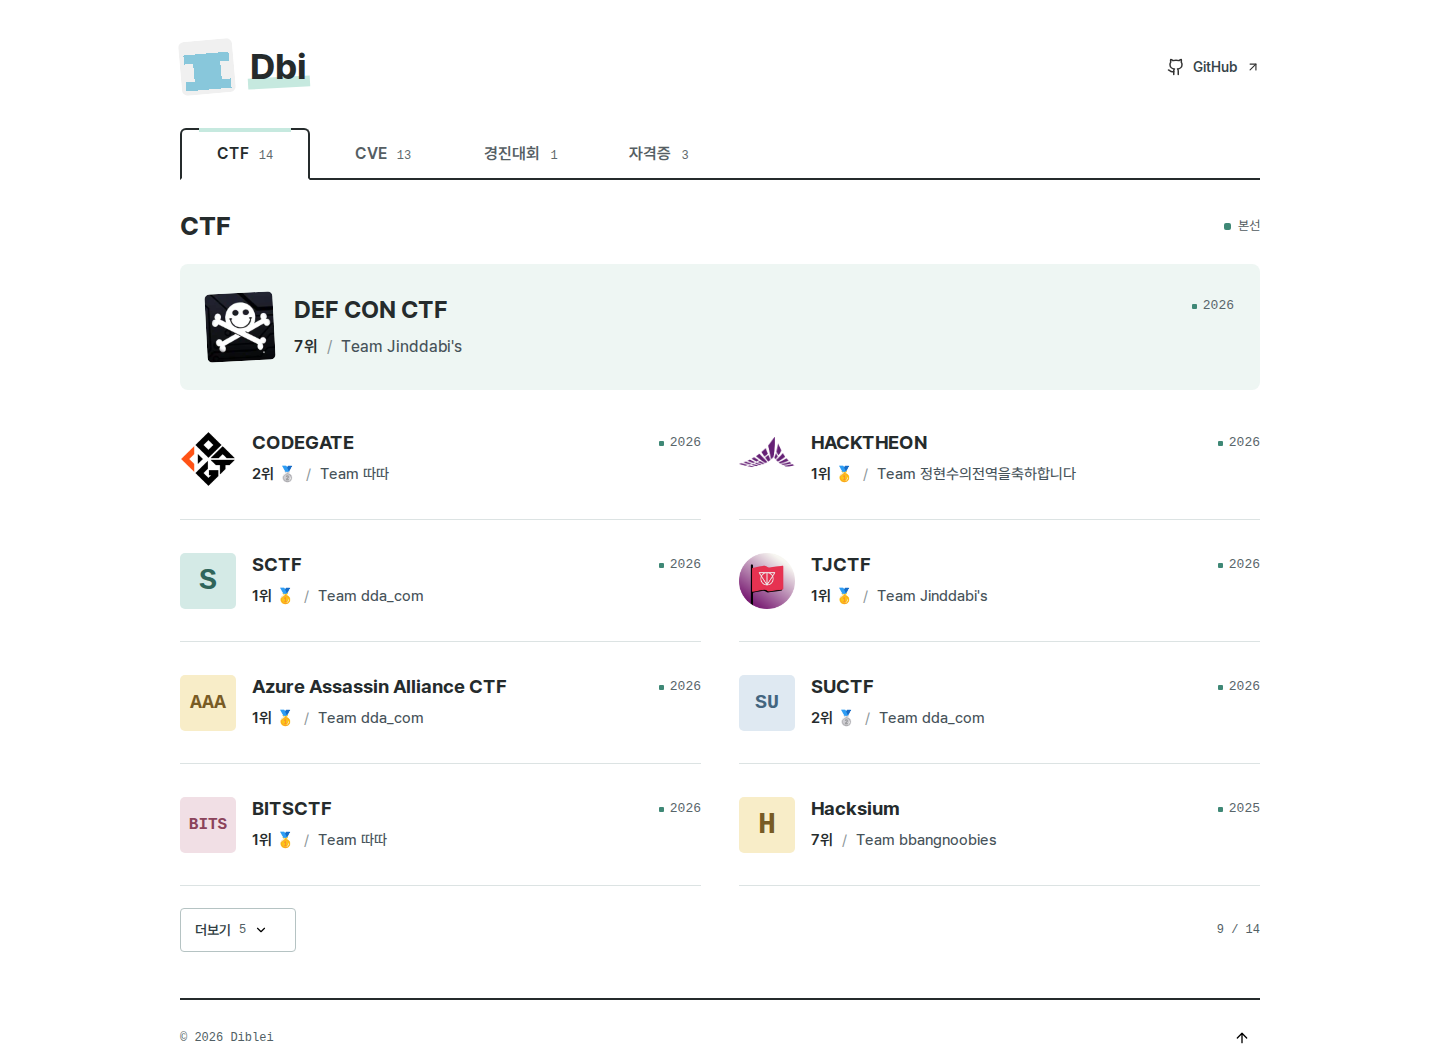
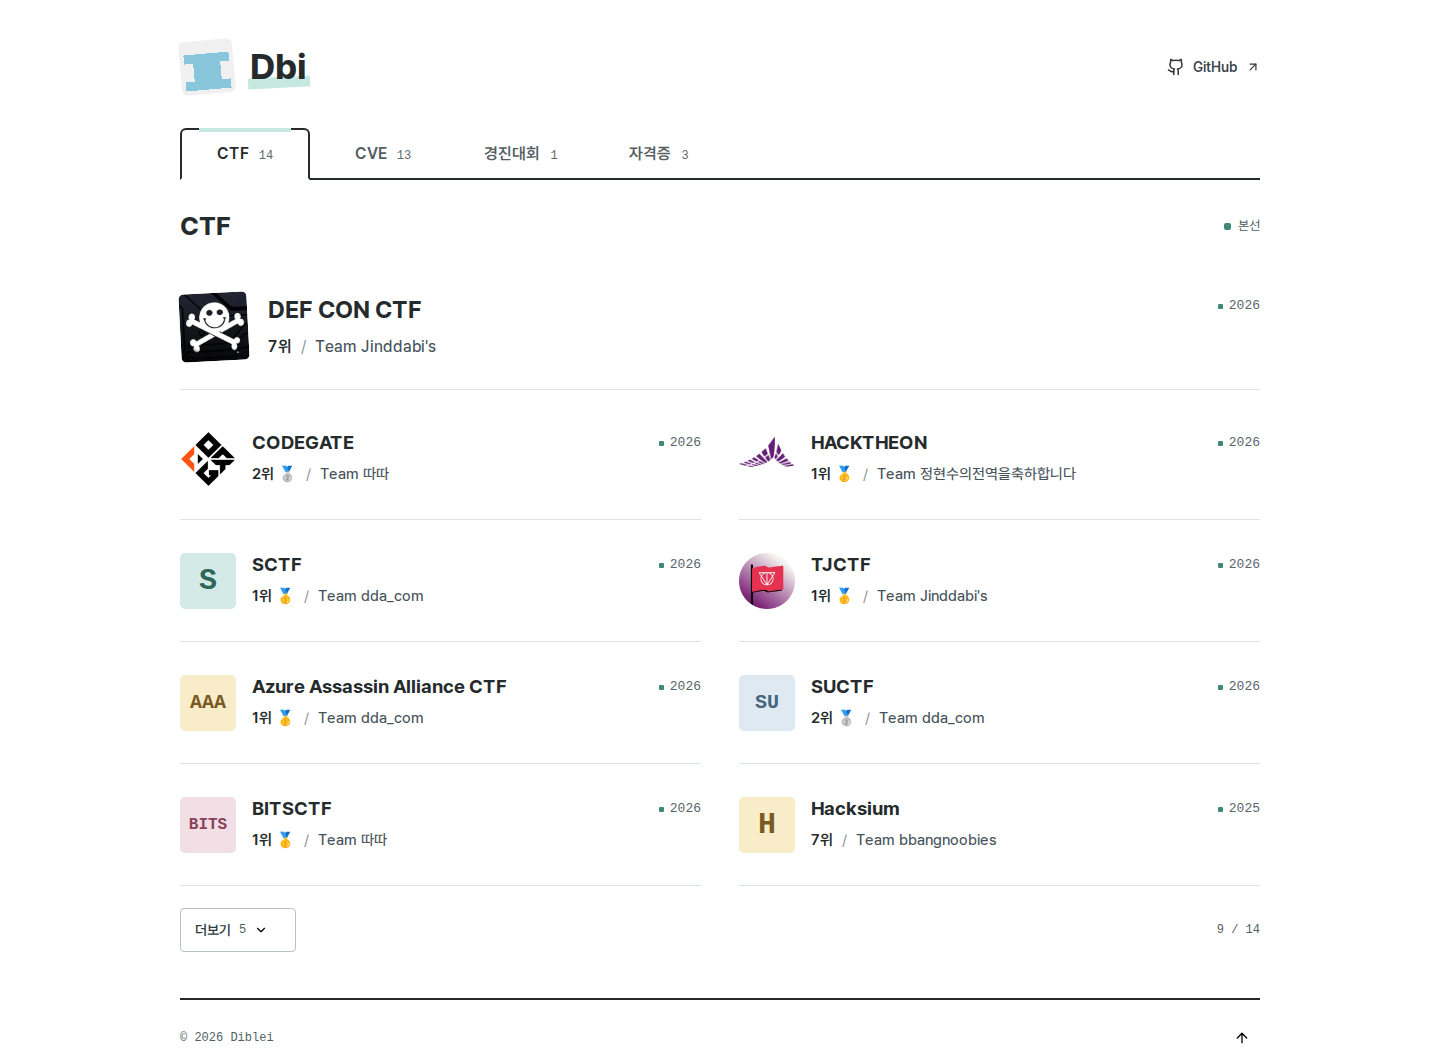
Simplify portfolio records with lighter separators

Changed region(s): [[0.125, 0.2743, 0.3125, 0.3657], [0.8438, 0.2743, 0.875, 0.3048]]

diff --git a/styles.css b/styles.css
@@ -410,10 +410,7 @@ main:focus {
   grid-template-columns: 72px minmax(0, 1fr) auto;
   min-height: 126px;
   margin-bottom: 8px;
-  padding: 22px 26px;
-  background: #eef6f3;
-  border: 0;
-  border-radius: 8px;
+  padding: 22px 0;
 }
 #ctf .record-list > li:first-child .record-mark {
   width: 68px;
@@ -435,34 +432,27 @@ main:focus {
 .cve-list {
   display: grid;
   grid-template-columns: repeat(2, minmax(0, 1fr));
-  gap: 16px;
+  column-gap: 38px;
 }
 .cve-list > li {
   --risk-color: #626e74;
-  --risk-tint: #f0f3f4;
   display: grid;
-  grid-template-columns: minmax(0, 1fr) 74px;
+  grid-template-columns: minmax(0, 1fr) 64px;
   grid-template-rows: auto auto 1fr;
   align-content: start;
   gap: 8px 18px;
-  min-height: 176px;
-  padding: 20px;
-  border: 1px solid var(--line);
-  border-left: 3px solid var(--risk-color);
-  border-radius: 6px;
-  background: white;
+  min-height: 168px;
+  padding: 24px 0;
+  border-bottom: 1px solid var(--line);
 }
 .cve-list > li:has(.severity-critical) {
   --risk-color: #b72d48;
-  --risk-tint: #fceaf0;
 }
 .cve-list > li:has(.severity-high) {
   --risk-color: #8a5710;
-  --risk-tint: #fff0cf;
 }
 .cve-list > li:has(.severity-medium) {
   --risk-color: #286585;
-  --risk-tint: #e6f2f9;
 }
 .cve-id {
   grid-area: 1 / 1;
@@ -500,11 +490,8 @@ main:focus {
   grid-area: 1 / 2 / 3 / 3;
   align-self: start;
   justify-self: end;
-  width: 74px;
-  min-height: 76px;
-  padding: 8px 4px;
-  border-radius: 4px;
-  background: var(--risk-tint);
+  width: 64px;
+  min-height: 74px;
   color: var(--risk-color);
   font-size: 12px;
   font-weight: 600;
@@ -530,19 +517,11 @@ main:focus {
 }
 .cve-list > li:has(.cve-article) {
   --coverage-color: #276853;
-  --coverage-tint: #e6f3ec;
   grid-template-rows: auto auto auto 1fr;
-  min-height: 234px;
-  border-color: #b4cfbf;
-  border-left: 3px solid var(--coverage-color);
-  background: #f7fbf8;
+  min-height: 216px;
 }
 .cve-list > li:has(.cve-article[href*="cvebrief.com"]) {
   --coverage-color: #375f83;
-  --coverage-tint: #e7f0f8;
-  border-color: #b8ccdd;
-  border-left-color: var(--coverage-color);
-  background: #f7fafd;
 }
 .cve-list > li:has(.cve-article) .cve-id {
   grid-area: 2 / 1;
@@ -563,12 +542,8 @@ main:focus {
   gap: 6px 12px;
   grid-area: 1 / 1 / 2 / -1;
   justify-self: stretch;
-  min-height: 48px;
-  margin: -20px -20px 10px;
-  padding: 12px 20px;
-  border-bottom: 1px solid #cfdfd8;
-  border-radius: 3px 5px 0 0;
-  background: var(--coverage-tint);
+  min-height: 32px;
+  margin-bottom: 10px;
   color: var(--coverage-color);
   font-size: 14px;
   font-weight: 650;
@@ -590,7 +565,7 @@ main:focus {
   text-decoration: underline;
 }
 .cve-article:focus-visible {
-  outline-offset: -4px;
+  outline-offset: 4px;
 }
 
 #contest .record-list > li {
@@ -885,7 +860,7 @@ main:focus {
   }
   #ctf .record-list > li:first-child {
     grid-template-columns: 44px minmax(0, 1fr) auto;
-    padding: 20px 14px;
+    padding: 20px 0;
   }
   #ctf .record-list > li:first-child .record-mark,
   #ctf .record-list > li:first-child .record-mark img {

diff --git a/index.html b/index.html
@@ -9,7 +9,7 @@
     <meta property="og:type" content="website" />
     <title>Dbi · CTF &amp; CVE</title>
     <link rel="icon" href="assets/avatar.png" type="image/png" />
-    <link rel="stylesheet" href="styles.css?v=20261017-6" />
+    <link rel="stylesheet" href="styles.css?v=20261017-7" />
     <noscript>
       <style>
         .record-list > li[hidden],
